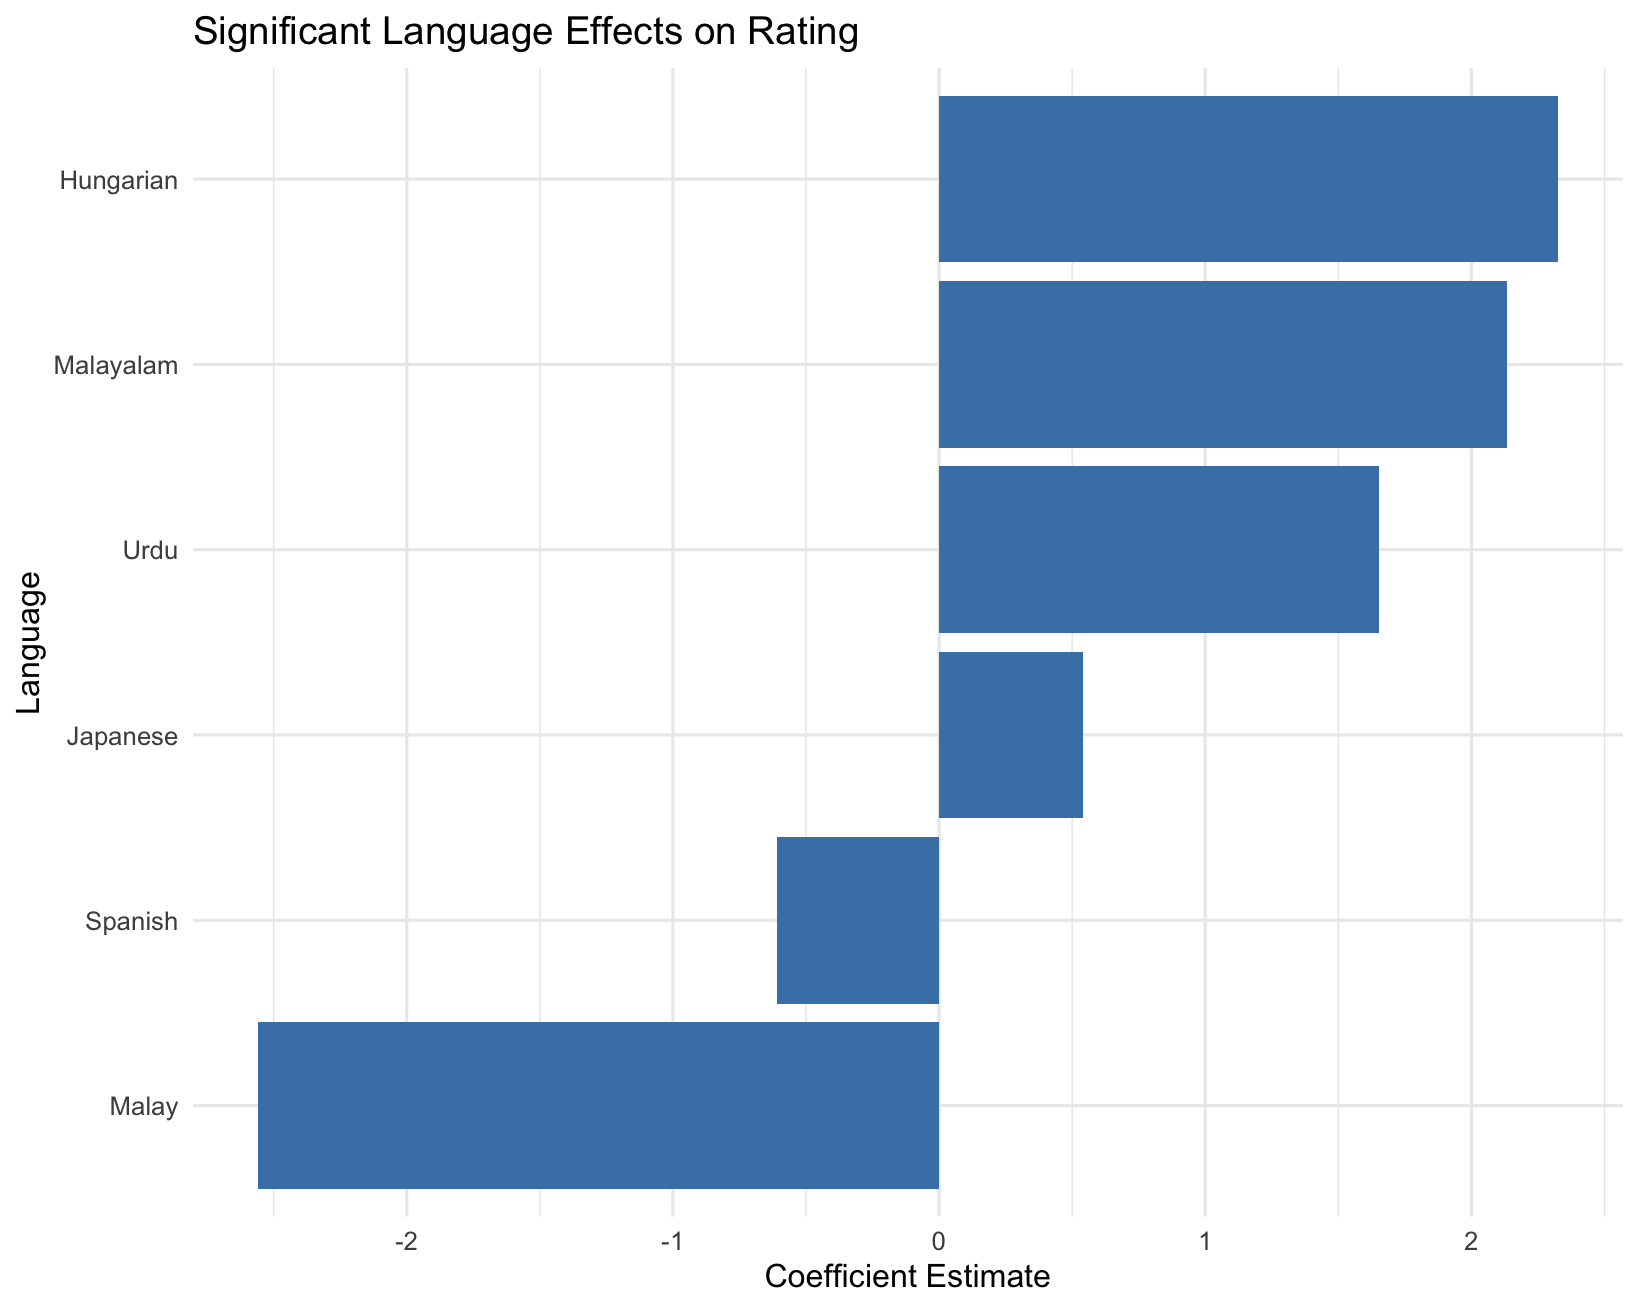
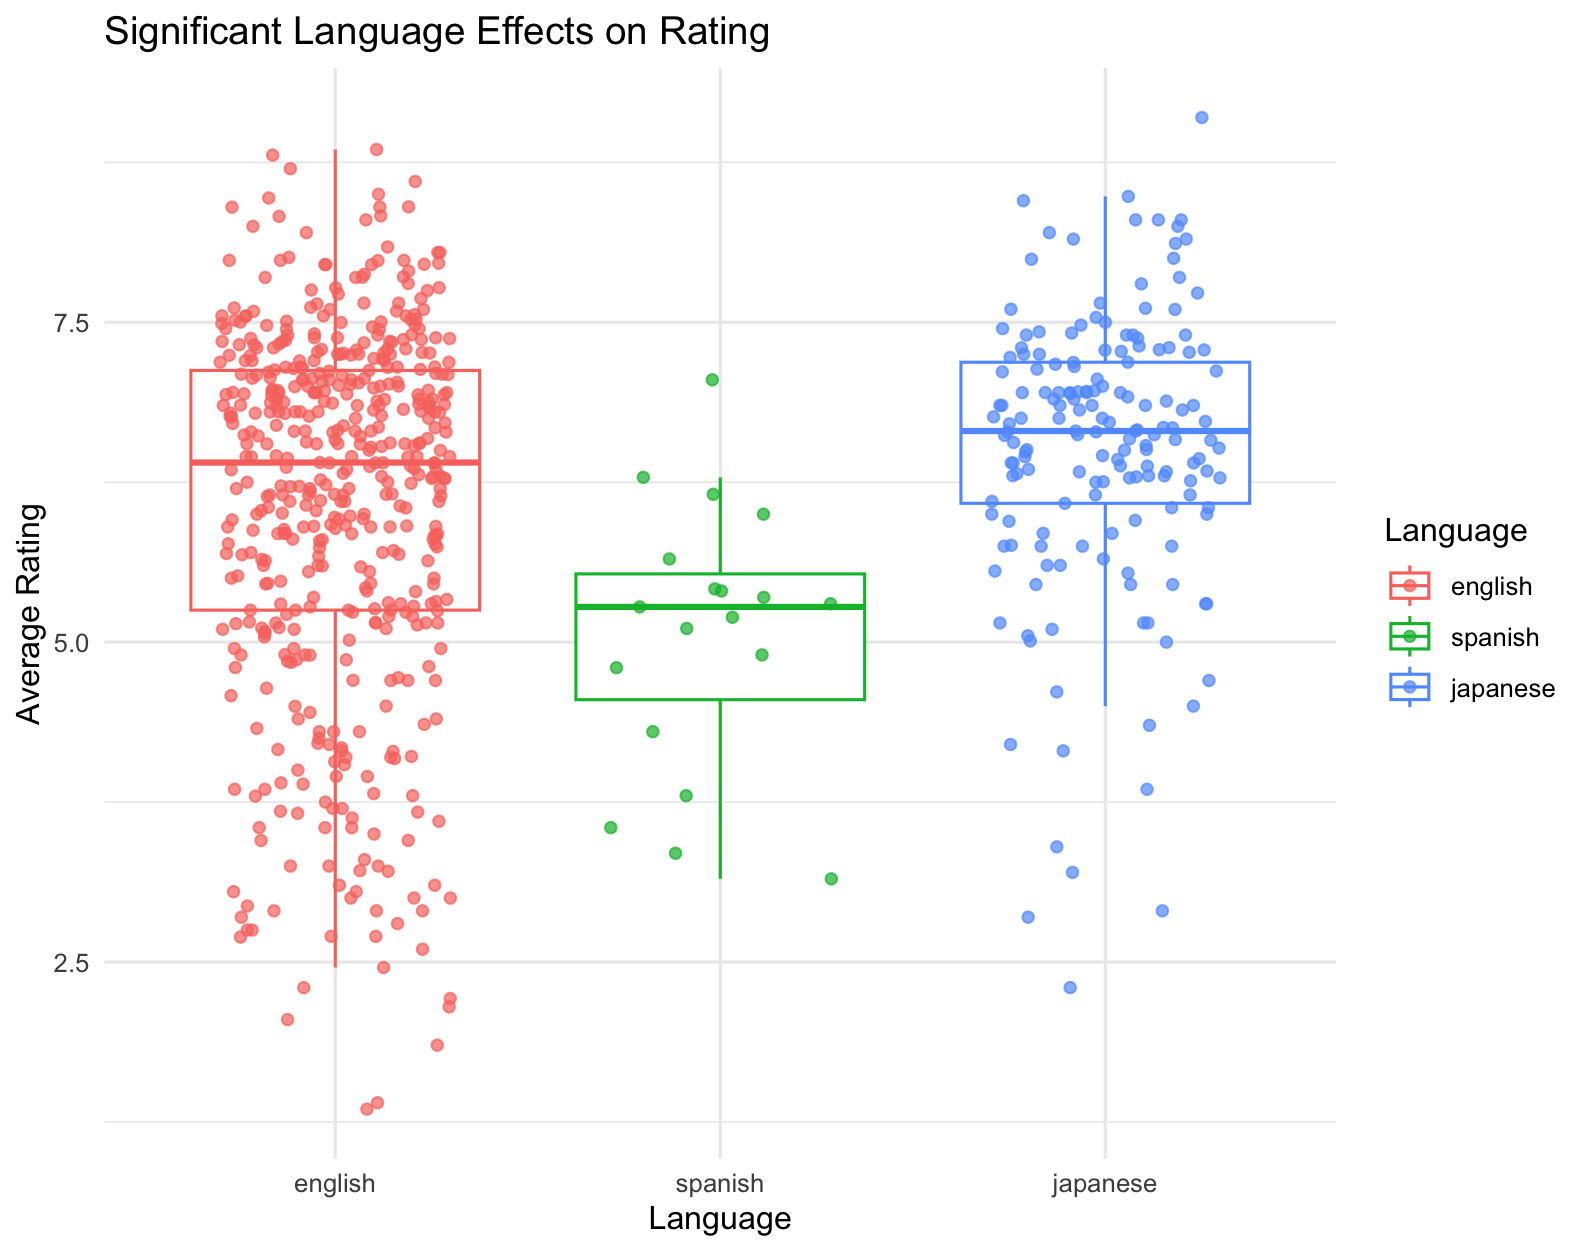
updated language plot

diff --git a/superheroes/superheroes.md b/superheroes/superheroes.md
@@ -94,4 +94,6 @@ Four languages were found to be significantly associated with higher average rat
 
 In contrast, Malay and Spanish was found to be significantly associated with a lower average rating, compared to English
 
-![bar plot of languages](plots/rating_language.png)
+This data was filtered to only include languages that had more than 10 films to account for low numbers, e.g. hungarian only had 2 films.
+
+![box plot of languages](plots/rating_language.png)
